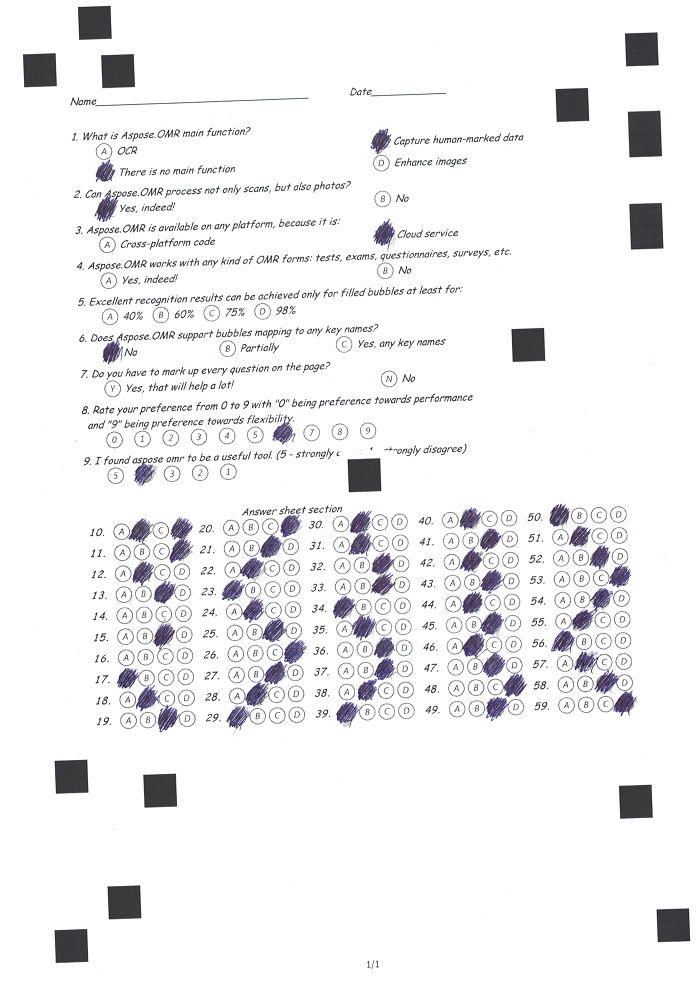
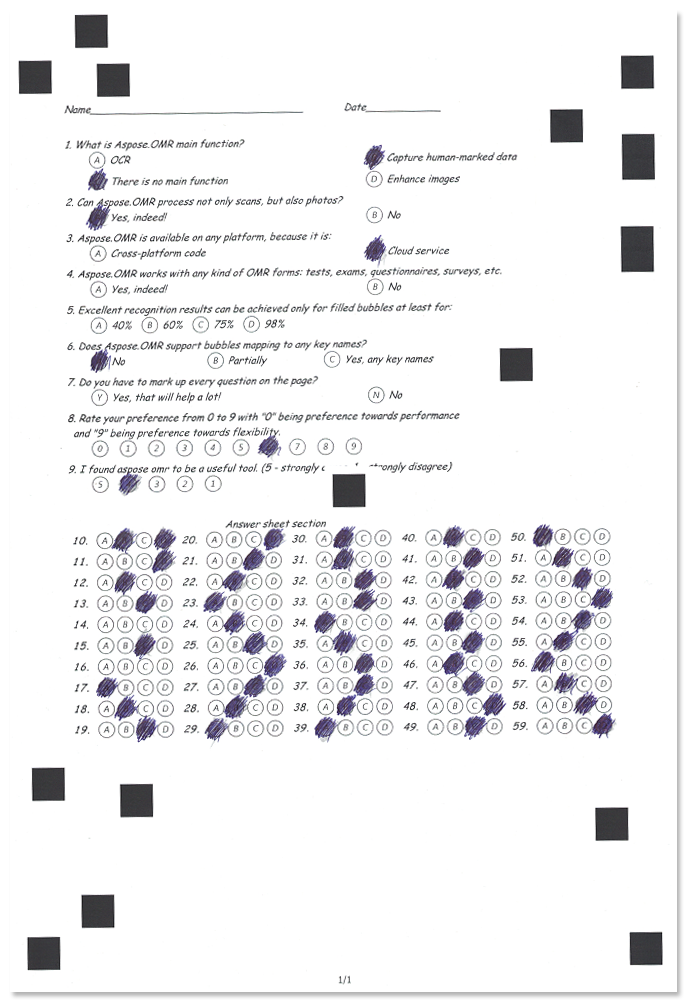
Release Notes fix

diff --git a/net/release-notes/release-notes-2022/aspose-omr-for-net-22-8-release-notes/_index.md b/net/release-notes/release-notes-2022/aspose-omr-for-net-22-8-release-notes/_index.md
@@ -27,9 +27,8 @@ Key | Summary | Category
 OMRNET-614 | Improved handling of rotated images by adding an extra [positioning marker](/omr/net/omr-form-structure/) to the form. See [Changes in application logic](#additional-positioning-marker) for important details on backward compatibility. | Enhancement
 OMRNET-622 | Additional rectangles on a scanned or photographed OMR form no longer interfere with the [positioning markers](/omr/net/omr-form-structure/). | Enhancement
 OMRNET-614 | `VerticalChoiceBox` ([text markup](/omr/net/txt-markup/vertical_choicebox/) / [JSON markup](/omr/net/json-markup/verticalchoicebox/)) element now supports more than one write-in field. | Enhancement
+OMRNET-622| Improved the algorithm for detecting positioning markers. | Enhancement
 n/a | Removed a blank line at the end of recognition results saved as a [comma-separated values (CSV)](/omr/net/recognition/save/#saving-as-csv) file. | Enhancement
-|OMRNET-622| Improved filtering mechanism for recognition module to minimize false positive Reference Points| Enhancement
-
 
 ## Known issues and limitations
 
@@ -129,6 +128,18 @@ All forms generated with previous versions of Aspose.OMR for .NET (that lack tha
 
 Previous versions of Aspose.OMR for .NET may be able to process forms generated with Aspose.OMR for .NET 22.8, but recognition results are not guaranteed to be correct.
 
+### Improved positioning marker detection
+
+{{% alert color="primary" %}}
+**Compatibility: fully backward compatible.**
+
+This change will not affect existing code, print forms, or recognition results.
+{{% /alert %}}
+
+The algorithm for detecting [OMR form positioning markers](/omr/net/omr-form-structure/#positioning-markers) has been significantly improved. Now it can filter out additional elements on the form that might otherwise be mistaken for a position marker.
+
+![Filter out elements that look like a position marker](filter_example.png)
+
 ## Usage examples
 
 See the examples below to learn more about the changes introduced in this release:
@@ -175,9 +186,3 @@ This source code is backward compatible with Aspose.OMR for .NET 22.7 and below.
 ```
 
 ![Multiple write-in fields](form.png)
-
-### New filtering mechanism
-
-Filtering mechanism have been improved. Now scanned images with false positive reference point (see example below) can be properly recognized.
-
-![Multiple write-in fields](filter_example.png)
